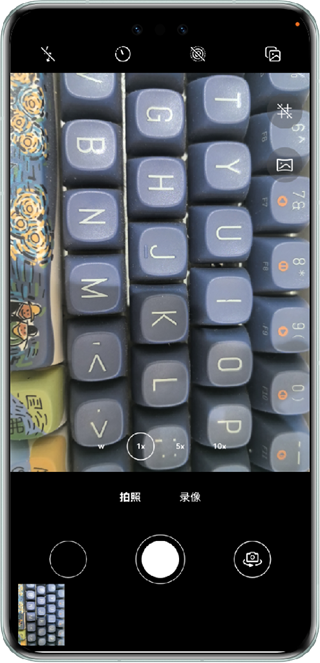
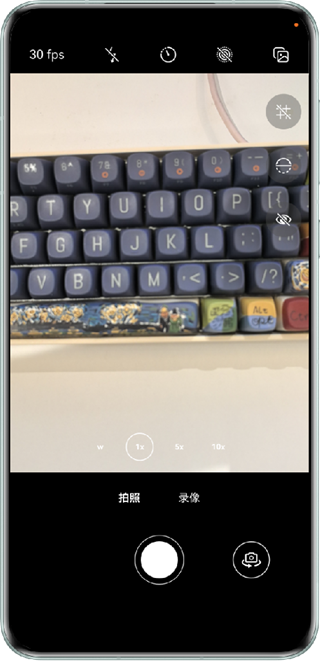
readme

diff --git a/README.md b/README.md
@@ -2,7 +2,7 @@
 
 ### 介绍
 
-本示例基于Camera Kit相机服务，实现预览、双路预览、拍照、录像等功能。为开发者提供基于自定义相机的开发指导。
+本示例基于Camera Kit相机服务，实现基础预览、预览画面调整（前后置镜头切换、闪光灯、对焦、调焦等）、预览进阶功能（网格线、水平仪、超时暂停等）、双路预览、拍照（动图拍摄、延迟拍摄等）、录像等核心功能。为开发者提供自定义相机开发的完整参考与实践指导。
 
 ### 效果预览
 
@@ -15,7 +15,7 @@
 1. 打开应用，授权后展示预览界面。
 2. 上方从左至右按钮功能依次为：闪光灯设置、延迟拍照模式设置、动态拍照模式设置、单双段拍照模式设置（单段拍照模式不支持动态拍摄）。
 3. 切换录像模式，上方按钮依次为：闪关灯设置、防抖模式设置。
-4. 右侧按钮依次为：网格线、水平仪。
+4. 右侧按钮依次为：网格线、水平仪、双路预览。
 5. 下方按钮可拍照，录像，切换前后置摄像头。
 
 ### 工程目录
